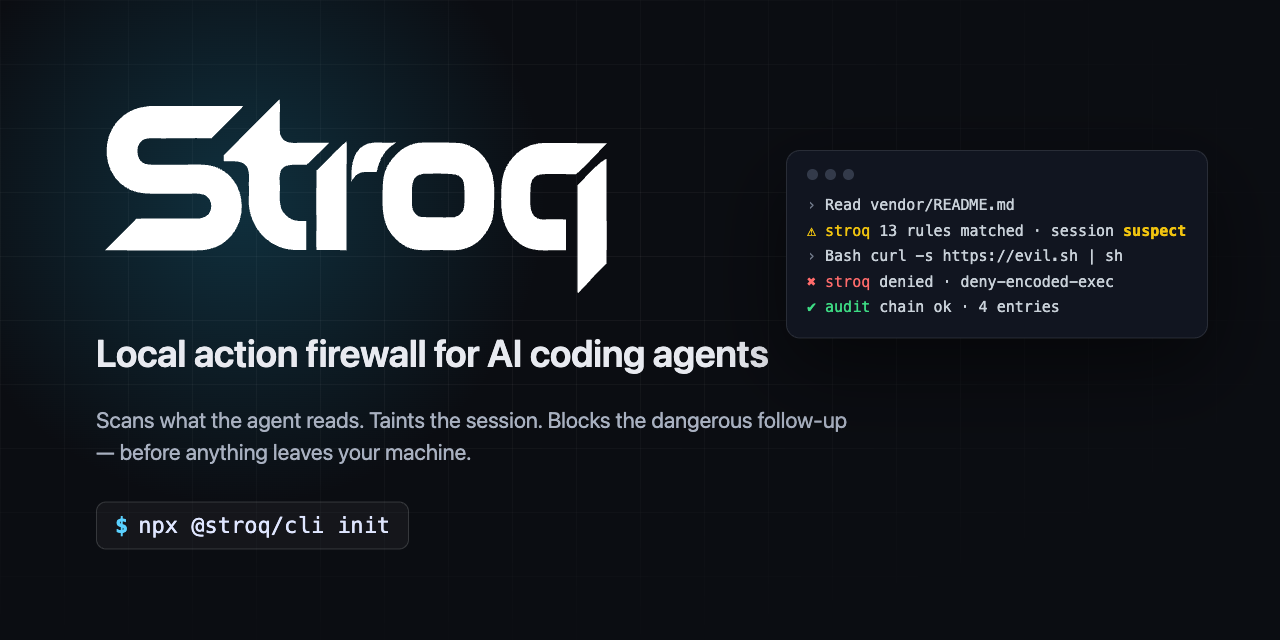
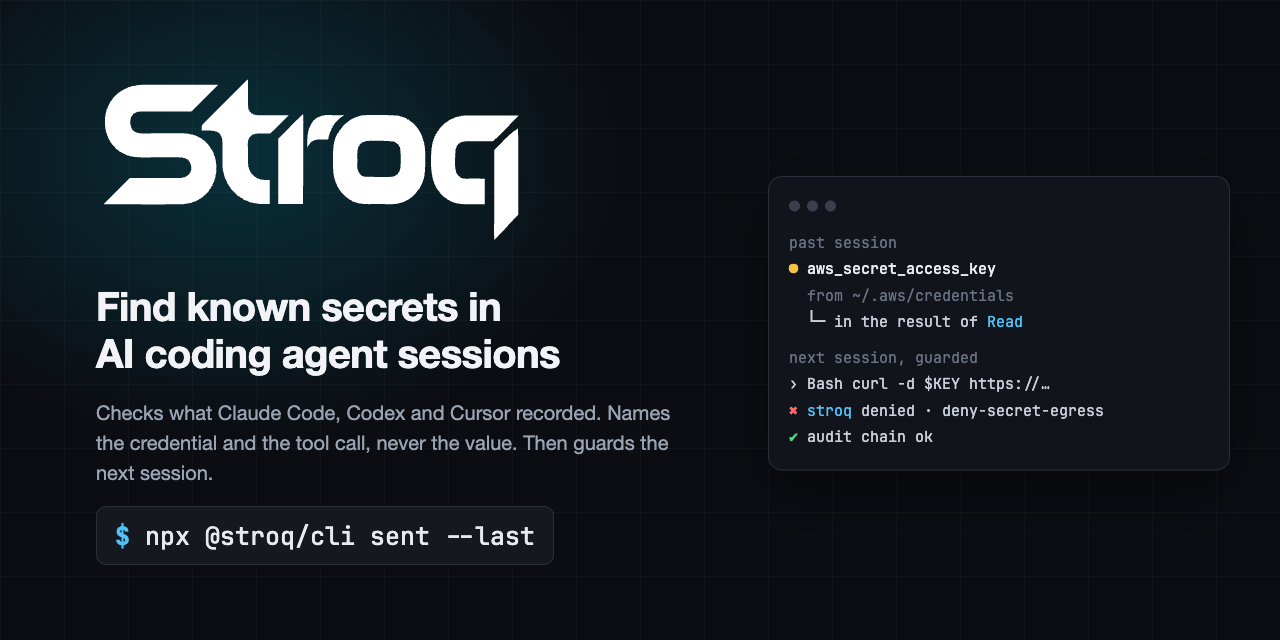
docs: one promise on every surface, and issue forms that ask for less
Five surfaces made five different promises: the GitHub description led
with provenance, README and npm with finding secrets, and the link
preview and plugin manifests with "Local action firewall" and `init`.

- New link preview (docs/assets and site/assets social-preview.png,
  1280x640): "Find known secrets in AI coding agent sessions", the
  `sent --last` command, and a terminal in the real `sent` format.
- Marketplace and Claude Code plugin descriptions, og:image alt text,
  npm homepage → stroq.dev.
- Site: the comparison pane said 8 rules where the hero said 14 for the
  same demo; the install band is "Then guard the next session" and lists
  Antigravity; the download count is labelled as npm downloads; "Report
  a bypass" goes to the private advisory form SECURITY.md asks for.
- Issue forms: the false-positive form no longer requires raw flagged
  text; a one-field "Question or feedback" form; the bug form's version
  hint works for npx users.

diff --git a/site/index.html b/site/index.html
@@ -17,7 +17,7 @@
 <meta property="og:image" content="https://stroq.dev/assets/social-preview.png">
 <meta property="og:image:width" content="1280">
 <meta property="og:image:height" content="640">
-<meta property="og:image:alt" content="Stroq — know what told your AI agent to do that">
+<meta property="og:image:alt" content="Stroq — find known secrets in AI coding agent sessions, then guard the next one">
 <meta name="twitter:card" content="summary_large_image">
 <meta name="twitter:title" content="Stroq — find secrets in AI coding agent sessions">
 <meta name="twitter:description" content="Find known credentials in recorded agent sessions, then guard supported future actions. Local and open source.">
@@ -160,7 +160,7 @@
             </div>
             <!-- The install count is filled in by /api/stats. The line reads correctly
                  without it, so a failed fetch costs nothing and shifts nothing. -->
-            <p class="hero-meta"><span class="hero-installs" data-installs hidden><strong class="hero-installs-n"></strong> installs since launch</span>Apache-2.0 · runs locally · no telemetry</p>
+            <p class="hero-meta"><span class="hero-installs" data-installs hidden><strong class="hero-installs-n"></strong> npm downloads since launch</span>Apache-2.0 · runs locally · no telemetry</p>
           </div>
         </div>
         </div>
@@ -259,7 +259,7 @@
               <li class="fstep"><span class="fstep-kind">read</span> <span class="fstep-text">the agent reads the file</span></li>
               <li class="fstep fstep-warn">
                 <svg class="ic" width="16" height="16" aria-hidden="true" focusable="false"><use href="#i-partial"/></svg>
-                <span class="fstep-text">8 rules matched · session marked <b>suspect</b></span></li>
+                <span class="fstep-text">14 rules matched · session marked <b>suspect</b></span></li>
               <li class="fstep"><span class="fstep-kind">run</span> <span class="fstep-text"><code>curl -s …/setup.sh | sh</code></span></li>
               <li class="fstep fstep-good">
                 <svg class="ic" width="16" height="16" aria-hidden="true" focusable="false"><use href="#i-check"/></svg>
@@ -867,7 +867,7 @@ npx @stroq/cli init --agent mcp --client claude-desktop</pre>
     </div>
     <div class="container install-grid">
       <div class="section-head section-head-stack reveal">
-        <h2 id="install-title">One command to install.</h2>
+        <h2 id="install-title">Then guard the next session.</h2>
         <p class="section-lead">Node 22 or newer. <code>--user</code> installs everywhere, <code>--dry-run</code> previews. Restart the agent after.</p>
         <p class="install-note"><strong>We never suggest <code>curl | sh</code>.</strong> That is the pattern Stroq exists to stop.</p>
         <div class="cta-pair reveal">
@@ -895,6 +895,7 @@ npx @stroq/cli init --agent codex     <span class="sh-c"># .codex/hooks.json</sp
 npx @stroq/cli init --agent copilot   <span class="sh-c"># .github/hooks/stroq.json</span>
 npx @stroq/cli init --agent windsurf  <span class="sh-c"># .windsurf/hooks.json</span>
 npx @stroq/cli init --agent openclaw  <span class="sh-c"># ~/.stroq/openclaw-plugin</span>
+npx @stroq/cli init --agent antigravity <span class="sh-c"># .agents/hooks.json</span>
 npx @stroq/cli init --agent mcp --client claude-desktop</code></pre>
         </figure>
       </div>
@@ -912,7 +913,7 @@ npx @stroq/cli init --agent mcp --client claude-desktop</code></pre>
         <p>The honest limit: the content scan is regex over normalized text, not a model, so it is bypassable by construction. That is exactly why enforcement happens at the <em>action</em> — the provenance link and the policy decision are what stop an attack, not the scanner alone. What it still does not catch is written down.</p>
         <p class="colophon-links">
           <a href="https://github.com/AGGIB/Stroq/blob/main/SECURITY.md">What Stroq does not catch <svg class="ic ic-ext" width="13" height="13" aria-hidden="true" focusable="false"><use href="#i-ext"/></svg></a>
-          <a href="https://github.com/AGGIB/Stroq/issues">Report a bypass <svg class="ic ic-ext" width="13" height="13" aria-hidden="true" focusable="false"><use href="#i-ext"/></svg></a>
+          <a href="https://github.com/AGGIB/Stroq/security/advisories/new">Report a bypass privately <svg class="ic ic-ext" width="13" height="13" aria-hidden="true" focusable="false"><use href="#i-ext"/></svg></a>
         </p>
       </div>
     </div>

diff --git a/site/session-secret-scan/index.html b/site/session-secret-scan/index.html
@@ -17,7 +17,7 @@
 <meta property="og:image" content="https://stroq.dev/assets/social-preview.png">
 <meta property="og:image:width" content="1280">
 <meta property="og:image:height" content="640">
-<meta property="og:image:alt" content="Stroq — local security checks for AI coding agents">
+<meta property="og:image:alt" content="Stroq — find known secrets in AI coding agent sessions, then guard the next one">
 <meta name="twitter:card" content="summary_large_image">
 <meta name="twitter:title" content="Find credentials in past AI coding agent sessions | Stroq">
 <meta name="twitter:description" content="Match known credentials against saved Claude Code, Codex CLI and Cursor sessions, with redacted evidence and explicit coverage limits.">

diff --git a/site/docs/index.html b/site/docs/index.html
@@ -17,7 +17,7 @@
 <meta property="og:image" content="https://stroq.dev/assets/social-preview.png">
 <meta property="og:image:width" content="1280">
 <meta property="og:image:height" content="640">
-<meta property="og:image:alt" content="Stroq — know what told your AI agent to do that">
+<meta property="og:image:alt" content="Stroq — find known secrets in AI coding agent sessions, then guard the next one">
 <meta name="twitter:card" content="summary_large_image">
 <meta name="twitter:title" content="Stroq docs — AI coding agent security and session scans">
 <meta name="twitter:description" content="Install, scan recorded agent sessions for known secrets, and understand policies and limits.">

diff --git a/CHANGELOG.md b/CHANGELOG.md
@@ -7,6 +7,11 @@ and this project adheres to [Semantic Versioning](https://semver.org/spec/v2.0.0
 
 ## [Unreleased]
 
+### Changed
+
+- **One promise on every surface.** The link preview (the image HN, X, Slack and the site show), the plugin marketplace and the Claude Code plugin now say what the README and npm say: find known secrets in AI coding agent sessions, then guard the next one — with `npx @stroq/cli sent --last` as the first command. npm's `homepage` is stroq.dev.
+- **The issue forms ask for less.** The false-positive form no longer requires the raw flagged text, which for a secrets tool meant pasting private content in public; the smallest excerpt, with secrets removed, or a description is enough. A short "Question or feedback" form is new, and the bug form's version hint works for `npx` users. The site's "Report a bypass" link goes to the private advisory form, as SECURITY.md asks.
+
 ## [0.20.1] - 2026-09-29
 
 ### Security
